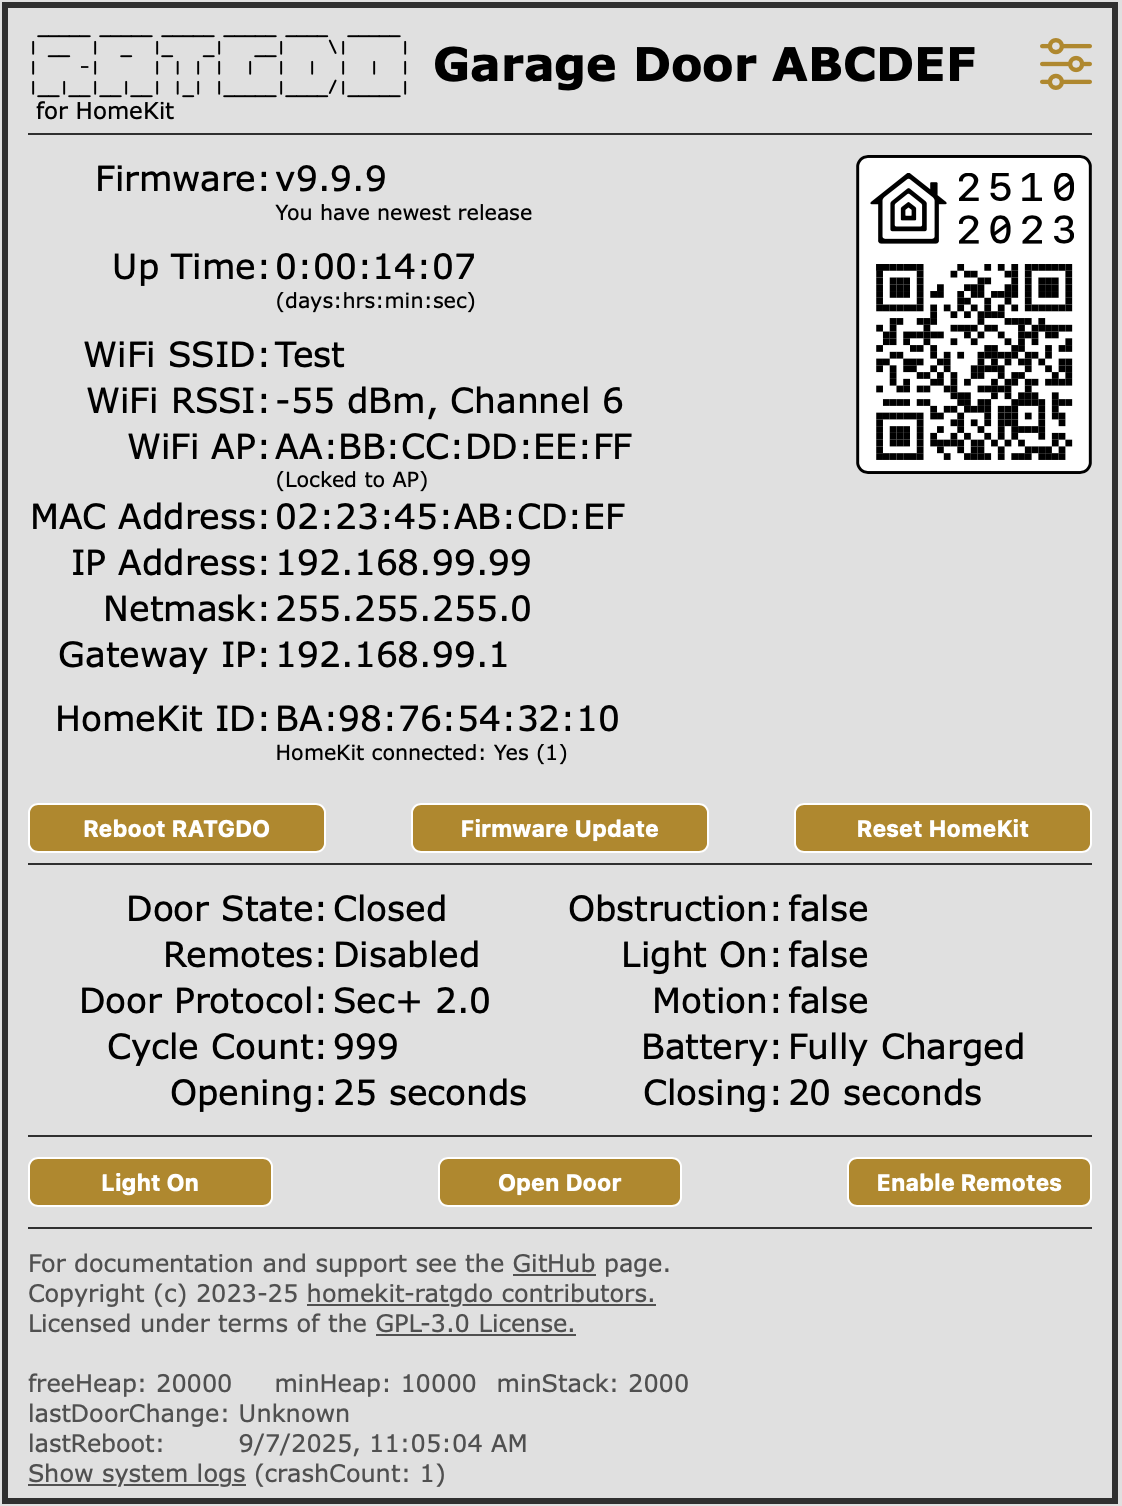
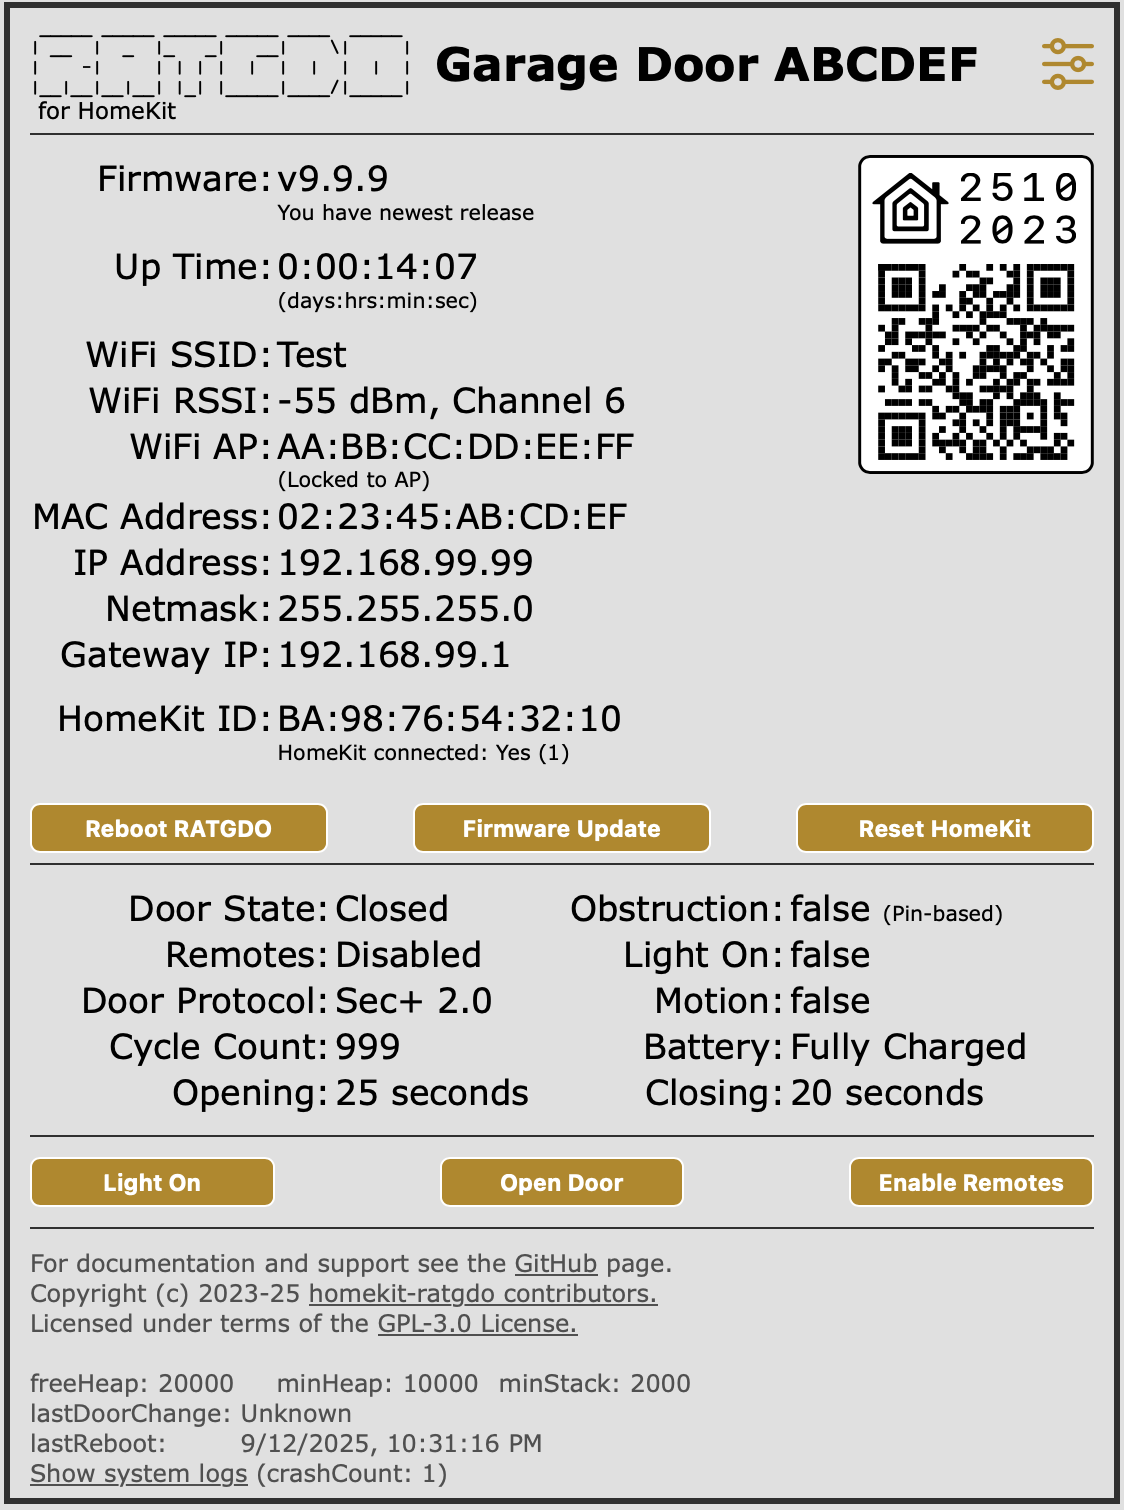
Update CHANGELOG.md, README.md and screen captures

diff --git a/README.md b/README.md
@@ -96,7 +96,18 @@ This section also displays the current firmware version, with a statement on whe
 
 Status of the garage door along with action buttons are shown in this section. The status values are updated in real time whether triggered by one of the action buttons or an external action (motion in the garage, someone using a door remote).
 
-For ratgdo32-disco boards, vehicle status is shown as Away, Parked, Arriving or Departing. A distance value in centimeters is also shown that represents the distance between the ratgdo board and either the garage floor (if no vehicle present) or the roof/hood of the vehicle. It is normal for this value to fluctuate. See section below on setting vehicle distance threshold.
+If you have a Security+ 1.0 door then you may see the word _(emulation)_ next to the door protocol. This indicates that you do not have a digital wall panel and the ratgdo is emulating this.
+
+Next to the obstruction status you will see the word _(Pin-based)_ or _(Message)_ that indicates how ratgdo is detecting whether there is an obstruction that may prevent the door from closing. By default, ratgdo will attempt to use the pin-based method and only fall back to using the garage door status messages if no signal is detected on the obstruction sensor wire.  You can force ratgdo to use status messages, see below.
+
+For Security+ 2.0 doors, the number of times the door has been opened and closed is shown as _Cycle Count_ and, if equipped, the status of the emergency backup battery.
+
+_Opening_ and _Closing_ values represent the time it takes for the door to open or close. This is averaged over the last five door operations amd resets when the ratgdo is rebooted.
+
+For ratgdo32-disco boards, vehicle status is shown as _Away_, _Parked_, _Arriving_ or _Departing_. A distance value in centimeters is also shown that represents the distance between the ratgdo board and either the garage floor (if no vehicle present) or the roof/hood of the vehicle. It is normal for this value to fluctuate. See section below on setting vehicle distance threshold.
+
+> [!NOTE]
+> It is important that the distance sensor does not point at the glass windshield of your vehicle as this will give unreliable results.
 
 ### Information section
 
@@ -145,6 +156,10 @@ This setting allows you to send the ratgdo logs to a syslog server. Enter the IP
 ### Log Level
 
 You can select the verbosity of log messages from none to verbose. Default is _Info_ level. If you are diagnosing a problem then you should change this to _Debug_ level.
+
+### HomeSpan
+
+On ratgdo32 boards we use an external library, [HomeSpan](https://github.com/HomeSpan/HomeSpan), for all HomeKit operations. When debugging using the serial port it may be helpful to enable HomeSpan's message logging and Command Line Interface (CLI). If you enable this setting then Improv-based WiFi provisioning is disabled unless the ratgdo32 boots into SoftAP mode.
 
 ### Door Close Delay
 
@@ -204,13 +219,12 @@ For Security+ 1.0 and Security +2.0 it is possible to repurpose the sensors used
 
 For Security+ 1.0 and Security+ 2.0, communications with the garage door uses a serial port. This can be either the ESP32's built-in hardware UART or a software emulation of a UART. Software emulation is required for Security+ 2.0 to allow for automatic sensing and changing of the baud rate... without this, the ratgdo cannot detect button presses at the garage door wall panel controller. For Security+ 1.0, software emulation is optional. If you experience communication errors you can try changing to use hardware UART.
 
+> [!NOTE]
+> This selection will only be available if the ratgdo firmware was built with the external GDOLIB library.
+
 ### Get obstruction from GDO status messages
 
-For Security+ 1.0 and Security +2.0, ratgdo obtains obstruction state from status messages sent by the door opener. These messages can sometimes be slow to report a change in obstruction status. Unselecting this option will tell the ratgdo to monitor the hardwired obstruction sensor pin directly.
-
-### Use TOGGLE command to close door
-
-If your Security+ 2.0 door is installed without obstruction sensors then it may not respond to the door action CLOSE command. Use this setting to change the command sent to close an open door to the TOGGLE command.
+By default ratgdo obtains obstruction state by monitoring signals on the sensor wire. The door also reports status in messages sent by the GDO and ratgdo will fall back to use status messages if no signal is detected on the wire. Selecting this option will force the ratgdo to always use status messages. Note that the messages method can be slow to report a change in obstruction state.
 
 ### WiFi Version _(not supported on ratgdo32 boards)_
 
@@ -508,7 +522,7 @@ having to remember PlatformIO-specific `pio` commands. The important ones are `r
 
 ## Acknowledgements & Credits.
 
-The original ESP8266 firmware was written by [Brandon Matthews](https://github.com/thenewwazoo). The ESP32 firmware was written by, and ongoing maintenance for both versions is provided by, [David Kerr](https://github.com/dkerr64). We are thankful for lots of help from contributors:
+The original ESP8266 HomeKit firmware was written by [Brandon Matthews](https://github.com/thenewwazoo). The ESP32 firmware was written by, and ongoing maintenance for both versions is provided by, [David Kerr](https://github.com/dkerr64). We are thankful for lots of help from contributors:
 
 - [Donavan Becker](https://github.com/donavanbecker)
 - [Adam Franke](https://github.com/frankea)

diff --git a/CHANGELOG.md b/CHANGELOG.md
@@ -2,7 +2,7 @@
 
 All notable changes to `homekit-ratgdo` will be documented in this file. This project tries to adhere to [Semantic Versioning](http://semver.org/).
 
-## v2.0.0 (2025-09-??)
+## v2.0.0 (2025-09-13)
 
 **Version 2.0.0 is a major upgrade** for ESP8266-based ratgdo boards.  Almost all source files for the ESP8266 and ESP32 versions of ratgdo have been merged which results in significant changes to the underlying code base, features and function for ESP8266 versions.
 
